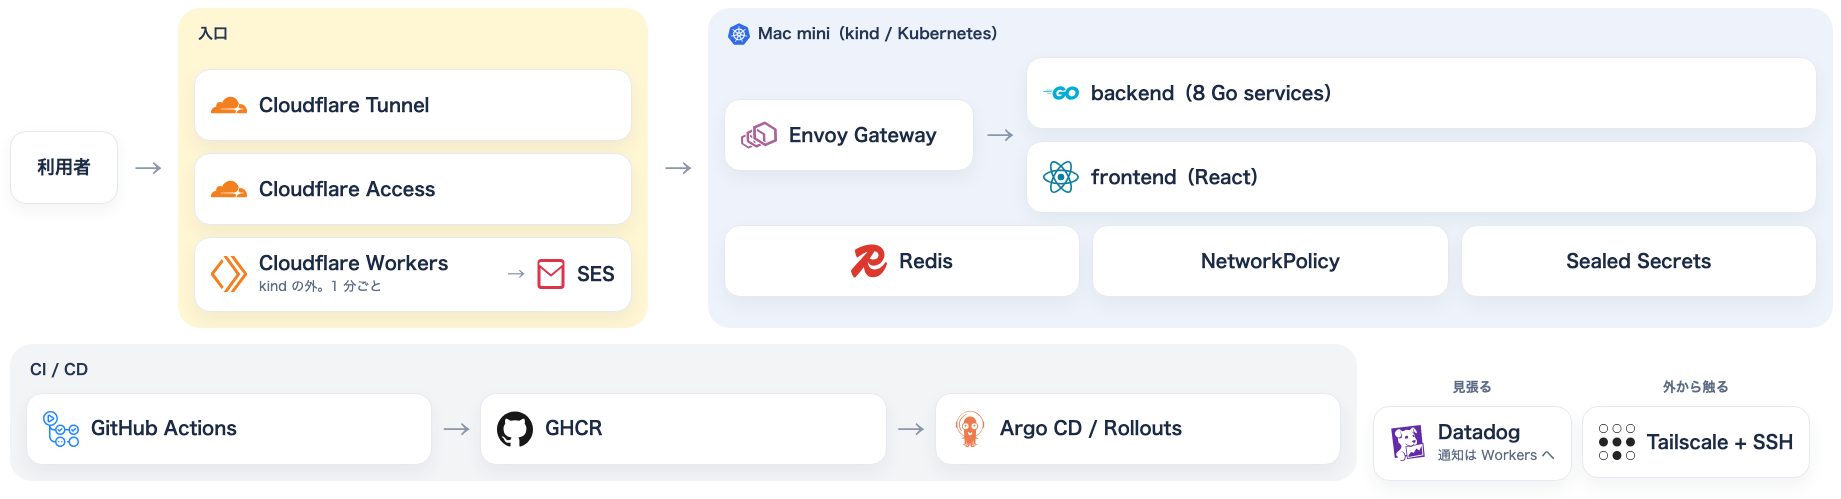
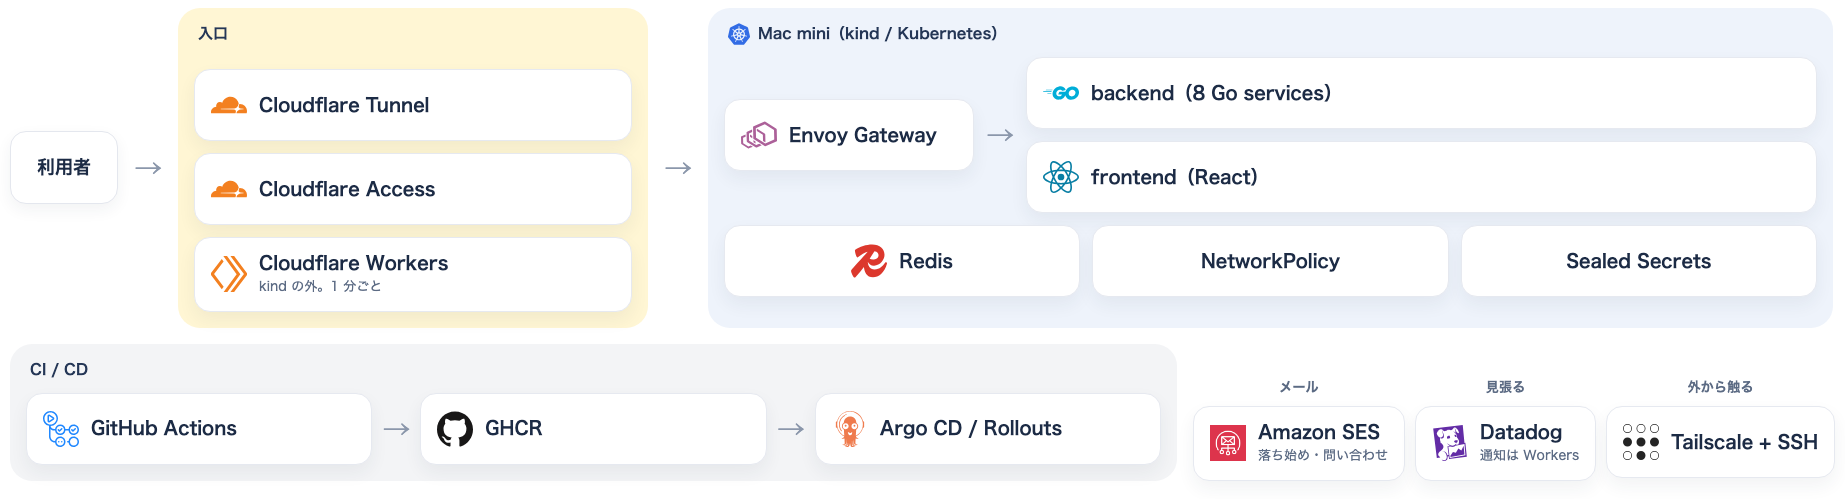
docs: 構成図の SES をコンソールのアイコンにする
落ち始めの Workers だけでなく、問い合わせの notification も同じ SES を使う。

diff --git a/README.md b/README.md
@@ -42,7 +42,7 @@
 
 - アクセスは Cloudflare Tunnel で家に届く（ルーターのポートは開けていない）
 - dev・stg・Argo Rollouts の画面は Cloudflare Access で管理者だけ
-- 落ち始めは Cloudflare Workers（kind の外）が 1 分ごとに見て、Datadog の通知も受けて SES でメールする
+- 落ち始めは Cloudflare Workers（kind の外）が 1 分ごとに見て、Datadog の通知も受けて SES でメールする。問い合わせのメールも notification が同じ SES を使う
 - 外からの作業は Tailscale ＋ SSH
 
 ### リリースの流れ（CI / CD）
